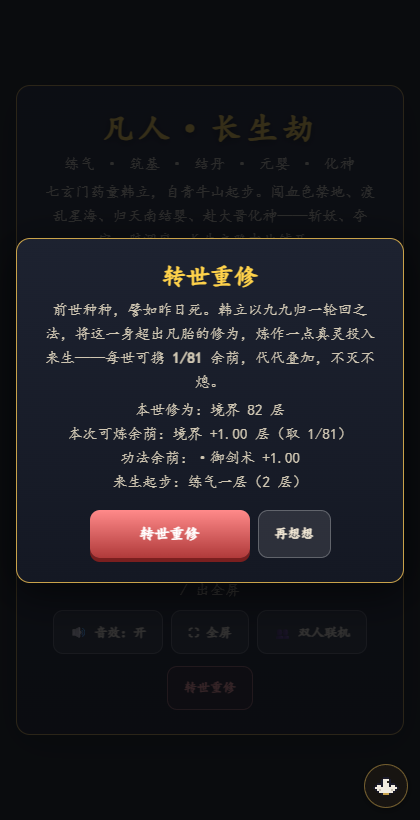
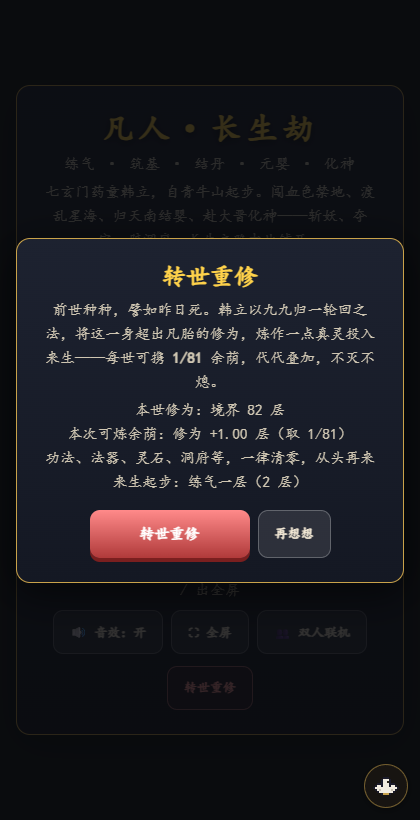
fix: 转世重修仅叠加「修为」，功法等其他一切清零从头再来
- 修正上一版误把功法也一并继承的问题：余荫池只存 {cycles,level}
- 1/81 只炼修为（境界），新生角色 = 练气一层 + floor(累计修为余荫)；功法一律回到 { sword: 1 }
- 确认弹层文案补「功法、法器、灵石、洞府等，一律清零，从头再来」
- 移除 setSkill 测试钩子；verify-rebirth 改为断言功法不继承，17/0
- smoke 288/0 无回归

Changed region(s): [[0.2167, 0.5183, 0.7119, 0.5793], [0.7429, 0.5488, 0.8976, 0.5793], [0.0929, 0.5488, 0.1857, 0.5793]]

diff --git a/js/game.js b/js/game.js
@@ -10,15 +10,16 @@
 
   // ---------- 存档 ----------
   const SAVE_KEY = 'fanren_save_v1';
-  // 转世重修：独立于主存档的「轮回余荫」池，删档也保留，代代叠加
+  // 转世重修：独立于主存档的「轮回余荫」池，删档也保留，代代叠加。
+  // 只炼「修为（境界）」——功法等其他一切，转世后一律清零、从头再来。
   const REBIRTH_KEY = 'fanren_rebirth_v1';
-  const REBIRTH_DIV = 81;   // 九九归一轮回：每世只取超出凡胎部分的 1/81
+  const REBIRTH_DIV = 81;   // 九九归一轮回：每世只取超出凡胎修为的 1/81
   function rebirthPool() {
     try {
       const raw = localStorage.getItem(REBIRTH_KEY);
-      if (raw) { const p = JSON.parse(raw) || {}; return { cycles: p.cycles | 0, level: Number(p.level) || 0, skills: (p.skills && typeof p.skills === 'object') ? p.skills : {} }; }
+      if (raw) { const p = JSON.parse(raw) || {}; return { cycles: p.cycles | 0, level: Number(p.level) || 0 }; }
     } catch (e) {}
-    return { cycles: 0, level: 0, skills: {} };
+    return { cycles: 0, level: 0 };
   }
   function writeRebirthPool(p) { try { localStorage.setItem(REBIRTH_KEY, JSON.stringify(p)); } catch (e) {} }
   // 永久加成上限：留出后期成长空间，避免一次刷满
@@ -5046,13 +5047,8 @@
     const curLv = Math.max(1, save.cultivate.level || 1);
     const lines = [];
     lines.push('本世修为：境界 ' + curLv + ' 层');
-    lines.push('本次可炼余荫：境界 +' + p.addLevel.toFixed(2) + ' 层（取 1/81）');
-    const sk = [];
-    for (const id in p.addSkills) {
-      const d = window.skillById ? window.skillById(id) : null;
-      sk.push('·' + (d ? d.name : id) + ' +' + p.addSkills[id].toFixed(2));
-    }
-    if (sk.length) lines.push('功法余荫：' + sk.join('　'));
+    lines.push('本次可炼余荫：修为 +' + p.addLevel.toFixed(2) + ' 层（取 1/81）');
+    lines.push('功法、法器、灵石、洞府等，一律清零，从头再来');
     lines.push('来生起步：' + realmName(p.startLevel) + '（' + p.startLevel + ' 层）' + (p.cycles > 0 ? '　已累积 ' + p.cycles + ' 世余荫' : ''));
     elRebirthText.innerHTML = lines.join('<br>');
     elRebirth.style.display = 'flex';
@@ -5437,58 +5433,40 @@
     if (G.player) { resetRunBonus(); G.gear = {}; G.runLoot = []; }
   }
 
-  // 本世可炼出的余荫（浮点、未取整）：境界 + 功法两层，超出凡胎的部分各取 1/81
+  // 本世可炼出的余荫（浮点、未取整）：只炼「修为」，超出凡胎的部分取 1/81
   function rebirthHarvest() {
     const c = cultObj();
     const curLv = Math.max(1, c.level || 1);
-    const addLevel = Math.max(0, curLv - 1) / REBIRTH_DIV;
-    const addSkills = {};
-    for (const id in c.skills) {
-      const lv = c.skills[id] | 0;
-      const base = (id === 'sword') ? 1 : 0;
-      const e = Math.max(0, lv - base);
-      if (e > 0) addSkills[id] = e / REBIRTH_DIV;
-    }
-    return { addLevel, addSkills };
+    return Math.max(0, curLv - 1) / REBIRTH_DIV;
   }
 
   // 预览：本次转世会炼出多少余荫、来生从哪一境起步（不落盘）
   function rebirthPreview() {
     const pool = rebirthPool();
-    const h = rebirthHarvest();
-    const nextLevel = (pool.level || 0) + h.addLevel;
-    const nextSkills = Object.assign({}, pool.skills || {});
-    for (const id in h.addSkills) nextSkills[id] = (nextSkills[id] || 0) + h.addSkills[id];
+    const addLevel = rebirthHarvest();
+    const nextLevel = (pool.level || 0) + addLevel;
     return {
       cycles: pool.cycles,
-      addLevel: h.addLevel,
-      addSkills: h.addSkills,
+      addLevel,
       nextLevel,
-      startLevel: 1 + Math.floor(nextLevel),
-      carriedSkills: Object.keys(nextSkills).filter(id => Math.floor(nextSkills[id] || 0) > 0).length
+      startLevel: 1 + Math.floor(nextLevel)
     };
   }
 
   function doRebirth() {
     const pool = rebirthPool();
-    const h = rebirthHarvest();
-    pool.level = (pool.level || 0) + h.addLevel;
-    for (const id in h.addSkills) pool.skills[id] = (pool.skills[id] || 0) + h.addSkills[id];
+    const addLevel = rebirthHarvest();
+    pool.level = (pool.level || 0) + addLevel;
     pool.cycles = (pool.cycles || 0) + 1;
     writeRebirthPool(pool);
 
     resetAllProgress();
 
-    // 新生角色 = 凡胎初始 + 累计余荫（向下取整）
+    // 新生角色 = 凡胎初始 + 累计修为余荫（向下取整）；功法一律回到剑一层、不继承
     const startLevel = 1 + Math.floor(pool.level);
     const c = cultObj();
     c.level = startLevel; c.xp = 0;
-    c.skills = { sword: 1 + Math.floor(pool.skills.sword || 0) };
-    for (const id in pool.skills) {
-      if (id === 'sword') continue;
-      const add = Math.floor(pool.skills[id] || 0);
-      if (add > 0) c.skills[id] = add;
-    }
+    c.skills = { sword: 1 };
     c.equipped = [];
     save.best.level = startLevel;
     writeSave();
@@ -5990,7 +5968,6 @@
     addMats(n) { const pool = (G.map && G.map.mats) || ['m_chijing', 'm_jingtie', 'm_fuzhi', 'm_lingmo']; for (const id of pool) { save.inventory[id] = (save.inventory[id] || 0) + (n || 3); save.totalItems = (save.totalItems || 0) + (n || 3); } writeSave(); if (G.state === 'cave') renderCave(); return pool.length; },
     mats() { const o = {}; for (const k in save.inventory) if (Items.mat(k)) o[k] = save.inventory[k]; return o; },
     setLevel(n) { save.cultivate.level = Math.max(1, n || 1); save.cultivate.xp = 0; syncBestLevel(); writeSave(); if (G.state === 'cave') renderCave(); return save.cultivate.level; },
-    setSkill(id, n) { const c = cultObj(); c.skills[id] = Math.max(0, n | 0); writeSave(); return c.skills[id]; },
     unlockAll() { for (const m of MAPS) if (save.unlocked.indexOf(m.id) < 0) save.unlocked.push(m.id); writeSave(); renderWorldMap(); return save.unlocked.length; },
     shop(tab) { openShop(tab); return G.shopTab; },
     stones(n) { save.stones = Math.max(0, (save.stones || 0) + (n == null ? 100 : n)); writeSave(); renderShop(); renderWorldMap(); refreshTitle(); return save.stones; },
@@ -6080,9 +6057,9 @@
     rebirth() { return doRebirth(); },
     rebirthPool() {
       const p = rebirthPool();
-      return { cycles: p.cycles, level: p.level, skills: Object.assign({}, p.skills) };
+      return { cycles: p.cycles, level: p.level };
     },
-    rebirthResetPool() { writeRebirthPool({ cycles: 0, level: 0, skills: {} }); return 'rebirth pool cleared'; },
+    rebirthResetPool() { writeRebirthPool({ cycles: 0, level: 0 }); return 'rebirth pool cleared'; },
     save: {
       read: () => localStorage.getItem(SAVE_KEY),
       clear: () => { localStorage.removeItem(SAVE_KEY); return '已清除存档'; },
